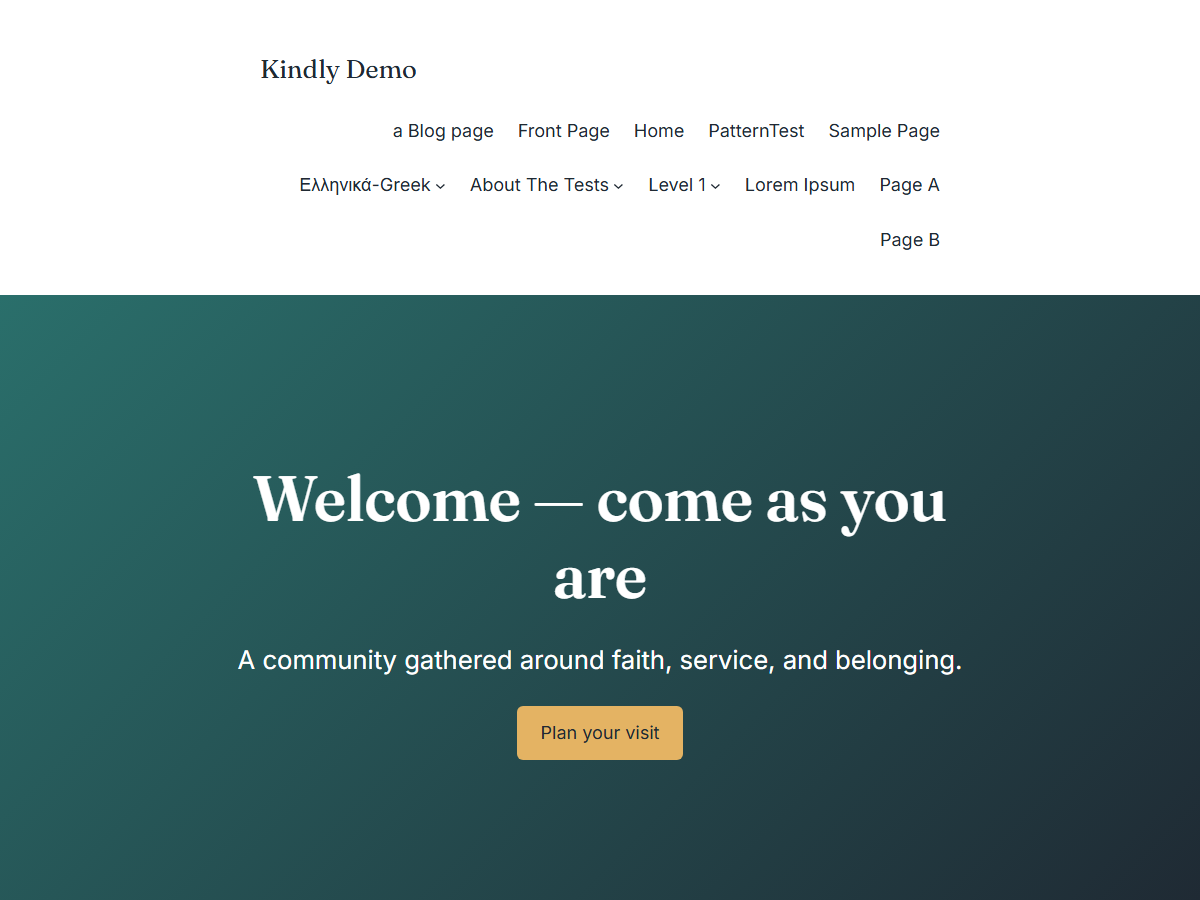
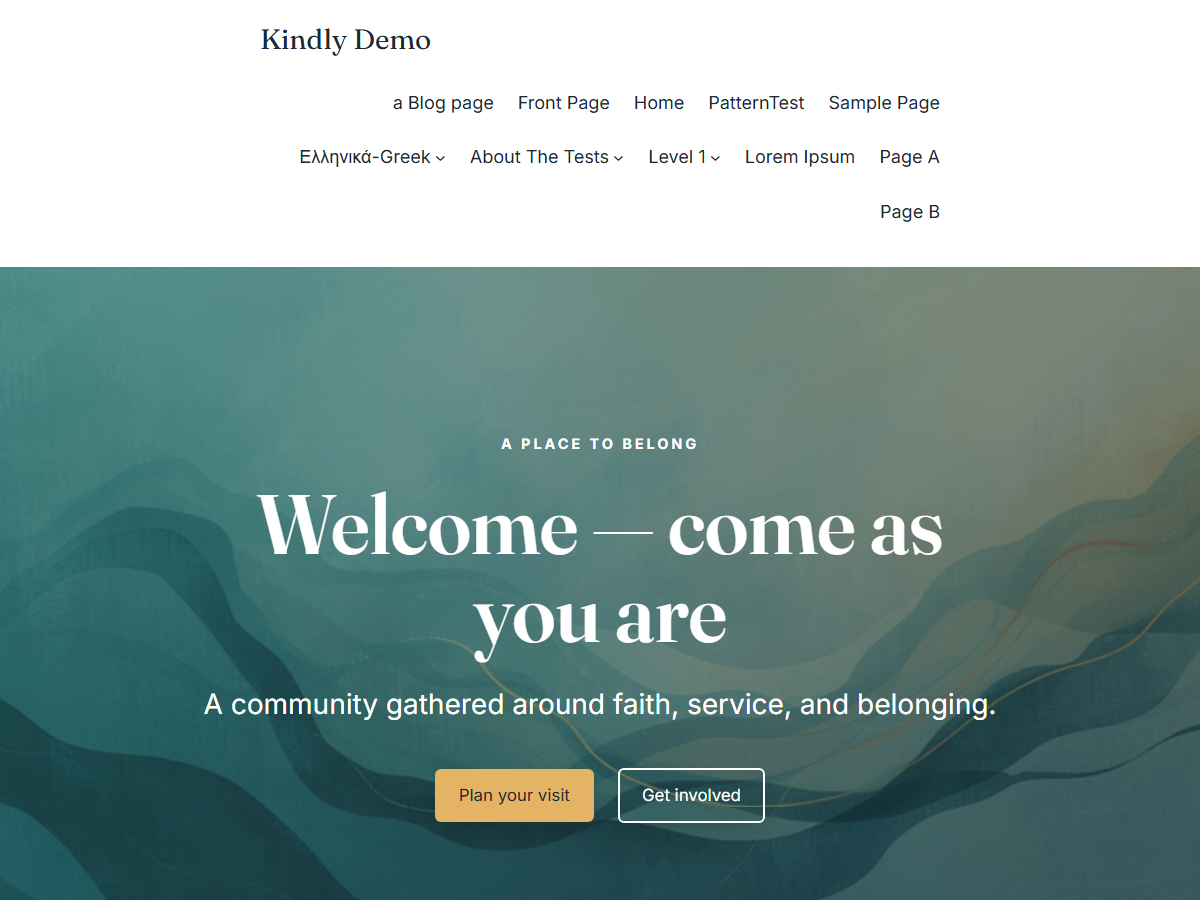
feat(design): bolder visual pass + generated hero/section imagery
- Card depth (shadows, hover lift), accent badges, bigger fluid headings,
  more colour rhythm; redesigned the "Who we are" and hero sections.
- Bundled 3 Canva-generated abstract images (hero bg, who-we-are feature,
  serve CTA bg) as default demo imagery — see assets/images/LICENSE.md and
  the readme.txt note re: swapping for GPL/CC0 before any WordPress.org submit.
- Hero & serve use cover images with palette-overlay (gradient/primary) at
  dim levels that keep white text WCAG AA legible.
- Theme Check: 0 REQUIRED, 0 WARNING. Responsive verified (mobile/tablet/desktop).

diff --git a/style.css b/style.css
@@ -21,6 +21,50 @@ Tags: full-site-editing, block-patterns, accessibility-ready, translation-ready,
 	border-radius: 2px;
 }
 
+/* --- Visual depth & polish --- */
+.wp-block-group.is-style-card,
+.kindly-card {
+	background-color: var(--wp--preset--color--base);
+	border-radius: 12px;
+	box-shadow: 0 12px 32px -14px rgba(17, 24, 39, 0.20);
+	transition: transform 0.2s ease, box-shadow 0.2s ease;
+}
+.wp-block-group.is-style-card:hover,
+.kindly-card:hover {
+	transform: translateY(-4px);
+	box-shadow: 0 20px 44px -16px rgba(17, 24, 39, 0.28);
+}
+
+/* Buttons get a gentle lift. */
+.wp-block-button__link {
+	box-shadow: 0 8px 20px -10px rgba(17, 24, 39, 0.45);
+	transition: transform 0.15s ease, box-shadow 0.15s ease;
+}
+.wp-block-button__link:hover {
+	transform: translateY(-2px);
+}
+
+/* Decorative accent rule for section headings. */
+.kindly-accent-rule {
+	width: 64px;
+	height: 4px;
+	border-radius: 2px;
+	background: var(--wp--preset--color--accent);
+}
+
+/* Round icon badge used in feature columns. */
+.kindly-badge {
+	display: inline-flex;
+	align-items: center;
+	justify-content: center;
+	width: 64px;
+	height: 64px;
+	border-radius: 50%;
+	background: color-mix(in srgb, var(--wp--preset--color--primary) 14%, var(--wp--preset--color--base));
+	font-size: 1.75rem;
+	line-height: 1;
+}
+
 /* Respect users who prefer reduced motion. */
 @media (prefers-reduced-motion: reduce) {
 	*,

diff --git a/patterns/service-times.php b/patterns/service-times.php
@@ -6,56 +6,56 @@
  * Description: A row of cards listing when the community gathers.
  */
 ?>
-<!-- wp:group {"align":"full","backgroundColor":"surface","style":{"spacing":{"padding":{"top":"var:preset|spacing|70","bottom":"var:preset|spacing|70"}}},"layout":{"type":"constrained"}} -->
-<div class="wp-block-group alignfull has-surface-background-color has-background" style="padding-top:var(--wp--preset--spacing--70);padding-bottom:var(--wp--preset--spacing--70)"><!-- wp:heading {"textAlign":"center","level":2} -->
+<!-- wp:group {"align":"full","backgroundColor":"surface","style":{"spacing":{"padding":{"top":"var:preset|spacing|80","bottom":"var:preset|spacing|80"}}},"layout":{"type":"constrained"}} -->
+<div class="wp-block-group alignfull has-surface-background-color has-background" style="padding-top:var(--wp--preset--spacing--80);padding-bottom:var(--wp--preset--spacing--80)"><!-- wp:heading {"textAlign":"center","level":2} -->
 <h2 class="wp-block-heading has-text-align-center"><?php esc_html_e( 'When we gather', 'kindly' ); ?></h2>
 <!-- /wp:heading -->
 
-<!-- wp:columns {"style":{"spacing":{"margin":{"top":"var:preset|spacing|50"}}}} -->
-<div class="wp-block-columns" style="margin-top:var(--wp--preset--spacing--50)"><!-- wp:column -->
-<div class="wp-block-column"><!-- wp:group {"backgroundColor":"base","style":{"spacing":{"padding":{"top":"var:preset|spacing|40","bottom":"var:preset|spacing|40","left":"var:preset|spacing|40","right":"var:preset|spacing|40"}},"border":{"radius":"8px"}},"layout":{"type":"constrained"}} -->
-<div class="wp-block-group has-base-background-color has-background" style="border-radius:8px;padding-top:var(--wp--preset--spacing--40);padding-right:var(--wp--preset--spacing--40);padding-bottom:var(--wp--preset--spacing--40);padding-left:var(--wp--preset--spacing--40)"><!-- wp:heading {"level":3,"fontSize":"large"} -->
-<h3 class="wp-block-heading has-large-font-size"><?php esc_html_e( 'Sunday Service', 'kindly' ); ?></h3>
+<!-- wp:columns {"style":{"spacing":{"margin":{"top":"var:preset|spacing|60"},"blockGap":{"left":"var:preset|spacing|50"}}}} -->
+<div class="wp-block-columns" style="margin-top:var(--wp--preset--spacing--60)"><!-- wp:column -->
+<div class="wp-block-column"><!-- wp:group {"className":"is-style-card","layout":{"type":"constrained"}} -->
+<div class="wp-block-group is-style-card"><!-- wp:heading {"level":3,"textColor":"primary","fontSize":"medium","style":{"typography":{"textTransform":"uppercase","letterSpacing":"1px","fontWeight":"700"}}} -->
+<h3 class="wp-block-heading has-primary-color has-text-color has-medium-font-size" style="font-weight:700;letter-spacing:1px;text-transform:uppercase"><?php esc_html_e( 'Sunday Service', 'kindly' ); ?></h3>
 <!-- /wp:heading -->
 
-<!-- wp:paragraph {"textColor":"primary","fontSize":"medium"} -->
-<p class="has-primary-color has-text-color has-medium-font-size"><?php esc_html_e( 'Sundays · 10:00 AM', 'kindly' ); ?></p>
+<!-- wp:paragraph {"fontSize":"x-large","style":{"typography":{"fontFamily":"var:preset|font-family|heading"},"spacing":{"margin":{"top":"var:preset|spacing|20","bottom":"var:preset|spacing|20"}}}} -->
+<p class="has-x-large-font-size" style="font-family:var(--wp--preset--font-family--heading);margin-top:var(--wp--preset--spacing--20);margin-bottom:var(--wp--preset--spacing--20)"><?php esc_html_e( '10:00 AM', 'kindly' ); ?></p>
 <!-- /wp:paragraph -->
 
 <!-- wp:paragraph {"fontSize":"small"} -->
-<p class="has-small-font-size"><?php esc_html_e( 'Worship, music, and a message of hope. Everyone is welcome.', 'kindly' ); ?></p>
+<p class="has-small-font-size"><strong><?php esc_html_e( 'Sundays.', 'kindly' ); ?></strong> <?php esc_html_e( 'Worship, music, and a message of hope. Everyone is welcome.', 'kindly' ); ?></p>
 <!-- /wp:paragraph --></div>
 <!-- /wp:group --></div>
 <!-- /wp:column -->
 
 <!-- wp:column -->
-<div class="wp-block-column"><!-- wp:group {"backgroundColor":"base","style":{"spacing":{"padding":{"top":"var:preset|spacing|40","bottom":"var:preset|spacing|40","left":"var:preset|spacing|40","right":"var:preset|spacing|40"}},"border":{"radius":"8px"}},"layout":{"type":"constrained"}} -->
-<div class="wp-block-group has-base-background-color has-background" style="border-radius:8px;padding-top:var(--wp--preset--spacing--40);padding-right:var(--wp--preset--spacing--40);padding-bottom:var(--wp--preset--spacing--40);padding-left:var(--wp--preset--spacing--40)"><!-- wp:heading {"level":3,"fontSize":"large"} -->
-<h3 class="wp-block-heading has-large-font-size"><?php esc_html_e( 'Midweek Gathering', 'kindly' ); ?></h3>
+<div class="wp-block-column"><!-- wp:group {"className":"is-style-card","layout":{"type":"constrained"}} -->
+<div class="wp-block-group is-style-card"><!-- wp:heading {"level":3,"textColor":"primary","fontSize":"medium","style":{"typography":{"textTransform":"uppercase","letterSpacing":"1px","fontWeight":"700"}}} -->
+<h3 class="wp-block-heading has-primary-color has-text-color has-medium-font-size" style="font-weight:700;letter-spacing:1px;text-transform:uppercase"><?php esc_html_e( 'Midweek', 'kindly' ); ?></h3>
 <!-- /wp:heading -->
 
-<!-- wp:paragraph {"textColor":"primary","fontSize":"medium"} -->
-<p class="has-primary-color has-text-color has-medium-font-size"><?php esc_html_e( 'Wednesdays · 7:00 PM', 'kindly' ); ?></p>
+<!-- wp:paragraph {"fontSize":"x-large","style":{"typography":{"fontFamily":"var:preset|font-family|heading"},"spacing":{"margin":{"top":"var:preset|spacing|20","bottom":"var:preset|spacing|20"}}}} -->
+<p class="has-x-large-font-size" style="font-family:var(--wp--preset--font-family--heading);margin-top:var(--wp--preset--spacing--20);margin-bottom:var(--wp--preset--spacing--20)"><?php esc_html_e( '7:00 PM', 'kindly' ); ?></p>
 <!-- /wp:paragraph -->
 
 <!-- wp:paragraph {"fontSize":"small"} -->
-<p class="has-small-font-size"><?php esc_html_e( 'Study, prayer, and connection in a smaller setting.', 'kindly' ); ?></p>
+<p class="has-small-font-size"><strong><?php esc_html_e( 'Wednesdays.', 'kindly' ); ?></strong> <?php esc_html_e( 'Study, prayer, and connection in a smaller setting.', 'kindly' ); ?></p>
 <!-- /wp:paragraph --></div>
 <!-- /wp:group --></div>
 <!-- /wp:column -->
 
 <!-- wp:column -->
-<div class="wp-block-column"><!-- wp:group {"backgroundColor":"base","style":{"spacing":{"padding":{"top":"var:preset|spacing|40","bottom":"var:preset|spacing|40","left":"var:preset|spacing|40","right":"var:preset|spacing|40"}},"border":{"radius":"8px"}},"layout":{"type":"constrained"}} -->
-<div class="wp-block-group has-base-background-color has-background" style="border-radius:8px;padding-top:var(--wp--preset--spacing--40);padding-right:var(--wp--preset--spacing--40);padding-bottom:var(--wp--preset--spacing--40);padding-left:var(--wp--preset--spacing--40)"><!-- wp:heading {"level":3,"fontSize":"large"} -->
-<h3 class="wp-block-heading has-large-font-size"><?php esc_html_e( 'Youth Night', 'kindly' ); ?></h3>
+<div class="wp-block-column"><!-- wp:group {"className":"is-style-card","layout":{"type":"constrained"}} -->
+<div class="wp-block-group is-style-card"><!-- wp:heading {"level":3,"textColor":"primary","fontSize":"medium","style":{"typography":{"textTransform":"uppercase","letterSpacing":"1px","fontWeight":"700"}}} -->
+<h3 class="wp-block-heading has-primary-color has-text-color has-medium-font-size" style="font-weight:700;letter-spacing:1px;text-transform:uppercase"><?php esc_html_e( 'Youth Night', 'kindly' ); ?></h3>
 <!-- /wp:heading -->
 
-<!-- wp:paragraph {"textColor":"primary","fontSize":"medium"} -->
-<p class="has-primary-color has-text-color has-medium-font-size"><?php esc_html_e( 'Fridays · 6:30 PM', 'kindly' ); ?></p>
+<!-- wp:paragraph {"fontSize":"x-large","style":{"typography":{"fontFamily":"var:preset|font-family|heading"},"spacing":{"margin":{"top":"var:preset|spacing|20","bottom":"var:preset|spacing|20"}}}} -->
+<p class="has-x-large-font-size" style="font-family:var(--wp--preset--font-family--heading);margin-top:var(--wp--preset--spacing--20);margin-bottom:var(--wp--preset--spacing--20)"><?php esc_html_e( '6:30 PM', 'kindly' ); ?></p>
 <!-- /wp:paragraph -->
 
 <!-- wp:paragraph {"fontSize":"small"} -->
-<p class="has-small-font-size"><?php esc_html_e( 'Games, service projects, and friendship for teens.', 'kindly' ); ?></p>
+<p class="has-small-font-size"><strong><?php esc_html_e( 'Fridays.', 'kindly' ); ?></strong> <?php esc_html_e( 'Games, service projects, and friendship for teens.', 'kindly' ); ?></p>
 <!-- /wp:paragraph --></div>
 <!-- /wp:group --></div>
 <!-- /wp:column --></div>

diff --git a/patterns/hero.php b/patterns/hero.php
@@ -6,19 +6,27 @@
  * Description: Full-width welcome hero with a mission statement and a primary call to action.
  */
 ?>
-<!-- wp:cover {"gradient":"hero","dimRatio":100,"minHeight":70,"minHeightUnit":"vh","contentPosition":"center center","align":"full","style":{"spacing":{"padding":{"top":"var:preset|spacing|70","bottom":"var:preset|spacing|70"}}}} -->
-<div class="wp-block-cover alignfull" style="padding-top:var(--wp--preset--spacing--70);padding-bottom:var(--wp--preset--spacing--70);min-height:70vh"><span aria-hidden="true" class="wp-block-cover__background has-background-dim-100 has-background-dim has-background-gradient has-hero-gradient-background"></span><div class="wp-block-cover__inner-container"><!-- wp:group {"layout":{"type":"constrained","contentSize":"760px"}} -->
-<div class="wp-block-group"><!-- wp:heading {"textAlign":"center","level":1,"textColor":"base","fontSize":"xx-large"} -->
-<h1 class="wp-block-heading has-text-align-center has-base-color has-text-color has-xx-large-font-size"><?php esc_html_e( 'Welcome — come as you are', 'kindly' ); ?></h1>
+<!-- wp:cover {"url":"<?php echo esc_url( get_template_directory_uri() . '/assets/images/hero-bg.jpg' ); ?>","dimRatio":60,"gradient":"hero","minHeight":80,"minHeightUnit":"vh","contentPosition":"center center","align":"full","isDark":true,"style":{"spacing":{"padding":{"top":"var:preset|spacing|80","bottom":"var:preset|spacing|80"}}}} -->
+<div class="wp-block-cover alignfull is-dark" style="padding-top:var(--wp--preset--spacing--80);padding-bottom:var(--wp--preset--spacing--80);min-height:80vh"><img class="wp-block-cover__image-background" alt="" src="<?php echo esc_url( get_template_directory_uri() . '/assets/images/hero-bg.jpg' ); ?>" data-object-fit="cover"/><span aria-hidden="true" class="wp-block-cover__background has-background-dim-60 has-background-dim has-background-gradient has-hero-gradient-background"></span><div class="wp-block-cover__inner-container"><!-- wp:group {"layout":{"type":"constrained","contentSize":"820px"}} -->
+<div class="wp-block-group"><!-- wp:paragraph {"align":"center","textColor":"base","style":{"typography":{"textTransform":"uppercase","letterSpacing":"3px","fontSize":"0.9rem","fontWeight":"700"}}} -->
+<p class="has-text-align-center has-base-color has-text-color" style="font-size:0.9rem;font-weight:700;letter-spacing:3px;text-transform:uppercase"><?php esc_html_e( 'A place to belong', 'kindly' ); ?></p>
+<!-- /wp:paragraph -->
+
+<!-- wp:heading {"textAlign":"center","level":1,"textColor":"base","fontSize":"xx-large","style":{"typography":{"lineHeight":"1.05"}}} -->
+<h1 class="wp-block-heading has-text-align-center has-base-color has-text-color has-xx-large-font-size" style="line-height:1.05"><?php esc_html_e( 'Welcome — come as you are', 'kindly' ); ?></h1>
 <!-- /wp:heading -->
 
-<!-- wp:paragraph {"align":"center","textColor":"base","fontSize":"large"} -->
+<!-- wp:paragraph {"align":"center","textColor":"base","fontSize":"large","style":{"elements":{"link":{"color":{"text":"var:preset|color|base"}}}}} -->
 <p class="has-text-align-center has-base-color has-text-color has-large-font-size"><?php esc_html_e( 'A community gathered around faith, service, and belonging.', 'kindly' ); ?></p>
 <!-- /wp:paragraph -->
 
-<!-- wp:buttons {"layout":{"type":"flex","justifyContent":"center"},"style":{"spacing":{"margin":{"top":"var:preset|spacing|40"}}}} -->
-<div class="wp-block-buttons" style="margin-top:var(--wp--preset--spacing--40)"><!-- wp:button {"backgroundColor":"accent","textColor":"contrast"} -->
-<div class="wp-block-button"><a class="wp-block-button__link has-contrast-color has-accent-background-color has-text-color has-background wp-element-button"><?php esc_html_e( 'Plan your visit', 'kindly' ); ?></a></div>
+<!-- wp:buttons {"layout":{"type":"flex","justifyContent":"center"},"style":{"spacing":{"margin":{"top":"var:preset|spacing|50"}}}} -->
+<div class="wp-block-buttons" style="margin-top:var(--wp--preset--spacing--50)"><!-- wp:button {"backgroundColor":"accent","textColor":"contrast","style":{"typography":{"fontSize":"1.05rem"}}} -->
+<div class="wp-block-button" style="font-size:1.05rem"><a class="wp-block-button__link has-contrast-color has-accent-background-color has-text-color has-background wp-element-button"><?php esc_html_e( 'Plan your visit', 'kindly' ); ?></a></div>
+<!-- /wp:button -->
+
+<!-- wp:button {"textColor":"base","className":"is-style-outline","style":{"typography":{"fontSize":"1.05rem"},"border":{"color":"var:preset|color|base","width":"2px"}}} -->
+<div class="wp-block-button is-style-outline" style="font-size:1.05rem"><a class="wp-block-button__link has-base-color has-text-color has-border-color wp-element-button" style="border-color:var(--wp--preset--color--base);border-width:2px"><?php esc_html_e( 'Get involved', 'kindly' ); ?></a></div>
 <!-- /wp:button --></div>
 <!-- /wp:buttons --></div>
 <!-- /wp:group --></div></div>

diff --git a/patterns/outreach.php b/patterns/outreach.php
@@ -6,44 +6,64 @@
  * Description: Three areas of humanitarian service the organization gives to the wider community.
  */
 ?>
-<!-- wp:group {"style":{"spacing":{"padding":{"top":"var:preset|spacing|70","bottom":"var:preset|spacing|70"}}},"layout":{"type":"constrained"}} -->
-<div class="wp-block-group" style="padding-top:var(--wp--preset--spacing--70);padding-bottom:var(--wp--preset--spacing--70)"><!-- wp:heading {"textAlign":"center","level":2} -->
+<!-- wp:group {"style":{"spacing":{"padding":{"top":"var:preset|spacing|80","bottom":"var:preset|spacing|80"}}},"layout":{"type":"constrained"}} -->
+<div class="wp-block-group" style="padding-top:var(--wp--preset--spacing--80);padding-bottom:var(--wp--preset--spacing--80)"><!-- wp:group {"layout":{"type":"constrained","contentSize":"640px"}} -->
+<div class="wp-block-group"><!-- wp:heading {"textAlign":"center","level":2} -->
 <h2 class="wp-block-heading has-text-align-center"><?php esc_html_e( 'Service &amp; outreach', 'kindly' ); ?></h2>
 <!-- /wp:heading -->
 
 <!-- wp:paragraph {"align":"center","fontSize":"large"} -->
 <p class="has-text-align-center has-large-font-size"><?php esc_html_e( 'We believe in giving back. Here is some of the work we do for our neighbors.', 'kindly' ); ?></p>
-<!-- /wp:paragraph -->
+<!-- /wp:paragraph --></div>
+<!-- /wp:group -->
 
-<!-- wp:columns {"style":{"spacing":{"margin":{"top":"var:preset|spacing|50"}}}} -->
-<div class="wp-block-columns" style="margin-top:var(--wp--preset--spacing--50)"><!-- wp:column -->
-<div class="wp-block-column"><!-- wp:heading {"level":3,"fontSize":"large"} -->
-<h3 class="wp-block-heading has-large-font-size"><?php esc_html_e( 'Food pantry', 'kindly' ); ?></h3>
+<!-- wp:columns {"style":{"spacing":{"margin":{"top":"var:preset|spacing|60"},"blockGap":{"left":"var:preset|spacing|50"}}}} -->
+<div class="wp-block-columns" style="margin-top:var(--wp--preset--spacing--60)"><!-- wp:column -->
+<div class="wp-block-column"><!-- wp:group {"className":"is-style-card","layout":{"type":"constrained"}} -->
+<div class="wp-block-group is-style-card"><!-- wp:html -->
+<p class="kindly-badge" aria-hidden="true">🍞</p>
+<!-- /wp:html -->
+
+<!-- wp:heading {"level":3,"fontSize":"large","style":{"spacing":{"margin":{"top":"var:preset|spacing|30"}}}} -->
+<h3 class="wp-block-heading has-large-font-size" style="margin-top:var(--wp--preset--spacing--30)"><?php esc_html_e( 'Food pantry', 'kindly' ); ?></h3>
 <!-- /wp:heading -->
 
 <!-- wp:paragraph -->
 <p><?php esc_html_e( 'Weekly groceries and warm meals for families facing hard times, no questions asked.', 'kindly' ); ?></p>
 <!-- /wp:paragraph --></div>
+<!-- /wp:group --></div>
 <!-- /wp:column -->
 
 <!-- wp:column -->
-<div class="wp-block-column"><!-- wp:heading {"level":3,"fontSize":"large"} -->
-<h3 class="wp-block-heading has-large-font-size"><?php esc_html_e( 'Community repairs', 'kindly' ); ?></h3>
+<div class="wp-block-column"><!-- wp:group {"className":"is-style-card","layout":{"type":"constrained"}} -->
+<div class="wp-block-group is-style-card"><!-- wp:html -->
+<p class="kindly-badge" aria-hidden="true">🔧</p>
+<!-- /wp:html -->
+
+<!-- wp:heading {"level":3,"fontSize":"large","style":{"spacing":{"margin":{"top":"var:preset|spacing|30"}}}} -->
+<h3 class="wp-block-heading has-large-font-size" style="margin-top:var(--wp--preset--spacing--30)"><?php esc_html_e( 'Community repairs', 'kindly' ); ?></h3>
 <!-- /wp:heading -->
 
 <!-- wp:paragraph -->
 <p><?php esc_html_e( 'Volunteers help elderly and disabled neighbors with home and yard projects.', 'kindly' ); ?></p>
 <!-- /wp:paragraph --></div>
+<!-- /wp:group --></div>
 <!-- /wp:column -->
 
 <!-- wp:column -->
-<div class="wp-block-column"><!-- wp:heading {"level":3,"fontSize":"large"} -->
-<h3 class="wp-block-heading has-large-font-size"><?php esc_html_e( 'Disaster relief', 'kindly' ); ?></h3>
+<div class="wp-block-column"><!-- wp:group {"className":"is-style-card","layout":{"type":"constrained"}} -->
+<div class="wp-block-group is-style-card"><!-- wp:html -->
+<p class="kindly-badge" aria-hidden="true">🤝</p>
+<!-- /wp:html -->
+
+<!-- wp:heading {"level":3,"fontSize":"large","style":{"spacing":{"margin":{"top":"var:preset|spacing|30"}}}} -->
+<h3 class="wp-block-heading has-large-font-size" style="margin-top:var(--wp--preset--spacing--30)"><?php esc_html_e( 'Disaster relief', 'kindly' ); ?></h3>
 <!-- /wp:heading -->
 
 <!-- wp:paragraph -->
 <p><?php esc_html_e( 'When crisis strikes nearby, we mobilize supplies and hands to help communities recover.', 'kindly' ); ?></p>
 <!-- /wp:paragraph --></div>
+<!-- /wp:group --></div>
 <!-- /wp:column --></div>
 <!-- /wp:columns --></div>
 <!-- /wp:group -->

diff --git a/patterns/mission.php b/patterns/mission.php
@@ -3,29 +3,47 @@
  * Title: Mission — Who we are
  * Slug: kindly/mission
  * Categories: kindly
- * Description: A short introduction to the organization with a supporting image.
+ * Description: A short introduction to the organization beside a feature image and core values.
  */
 ?>
-<!-- wp:group {"style":{"spacing":{"padding":{"top":"var:preset|spacing|70","bottom":"var:preset|spacing|70"}}},"layout":{"type":"constrained"}} -->
-<div class="wp-block-group" style="padding-top:var(--wp--preset--spacing--70);padding-bottom:var(--wp--preset--spacing--70)"><!-- wp:heading {"level":2} -->
-<h2 class="wp-block-heading"><?php esc_html_e( 'Who we are', 'kindly' ); ?></h2>
+<!-- wp:group {"style":{"spacing":{"padding":{"top":"var:preset|spacing|80","bottom":"var:preset|spacing|80"}}},"layout":{"type":"constrained"}} -->
+<div class="wp-block-group" style="padding-top:var(--wp--preset--spacing--80);padding-bottom:var(--wp--preset--spacing--80)"><!-- wp:columns {"verticalAlignment":"center","style":{"spacing":{"blockGap":{"left":"var:preset|spacing|70"}}}} -->
+<div class="wp-block-columns are-vertically-aligned-center"><!-- wp:column {"verticalAlignment":"center","width":"48%"} -->
+<div class="wp-block-column is-vertically-aligned-center" style="flex-basis:48%"><!-- wp:image {"aspectRatio":"4/3","scale":"cover","sizeSlug":"large","style":{"border":{"radius":"16px"}}} -->
+<figure class="wp-block-image size-large has-custom-border"><img src="<?php echo esc_url( get_template_directory_uri() . '/assets/images/whoweare.jpg' ); ?>" alt="" style="border-radius:16px;aspect-ratio:4/3;object-fit:cover"/></figure>
+<!-- /wp:image --></div>
+<!-- /wp:column -->
+
+<!-- wp:column {"verticalAlignment":"center","width":"52%"} -->
+<div class="wp-block-column is-vertically-aligned-center" style="flex-basis:52%"><!-- wp:html -->
+<div class="kindly-accent-rule"></div>
+<!-- /wp:html -->
+
+<!-- wp:heading {"level":2,"style":{"spacing":{"margin":{"top":"var:preset|spacing|30"}}}} -->
+<h2 class="wp-block-heading" style="margin-top:var(--wp--preset--spacing--30)"><?php esc_html_e( 'Who we are', 'kindly' ); ?></h2>
 <!-- /wp:heading -->
 
-<!-- wp:columns {"verticalAlignment":"center","style":{"spacing":{"margin":{"top":"var:preset|spacing|40"}}}} -->
-<div class="wp-block-columns are-vertically-aligned-center" style="margin-top:var(--wp--preset--spacing--40)"><!-- wp:column {"verticalAlignment":"center"} -->
-<div class="wp-block-column is-vertically-aligned-center"><!-- wp:paragraph {"fontSize":"large"} -->
+<!-- wp:paragraph {"fontSize":"large"} -->
 <p class="has-large-font-size"><?php esc_html_e( 'We are a community rooted in faith and shaped by service.', 'kindly' ); ?></p>
 <!-- /wp:paragraph -->
 
 <!-- wp:paragraph -->
-<p><?php esc_html_e( 'For more than a generation, neighbors have gathered here to worship, to care for one another, and to give back to the community around us. Whoever you are and wherever you are on your journey, there is a place for you.', 'kindly' ); ?></p>
-<!-- /wp:paragraph --></div>
-<!-- /wp:column -->
+<p><?php esc_html_e( 'For more than a generation, neighbors have gathered here to worship, to care for one another, and to give back. Whoever you are and wherever you are on your journey, there is a place for you.', 'kindly' ); ?></p>
+<!-- /wp:paragraph -->
 
-<!-- wp:column {"verticalAlignment":"center"} -->
-<div class="wp-block-column is-vertically-aligned-center"><!-- wp:image {"sizeSlug":"large","style":{"border":{"radius":"8px"}}} -->
-<figure class="wp-block-image size-large has-custom-border"><img alt="" style="border-radius:8px"/></figure>
-<!-- /wp:image --></div>
+<!-- wp:group {"style":{"spacing":{"blockGap":"var:preset|spacing|20","margin":{"top":"var:preset|spacing|40"}}},"layout":{"type":"constrained"}} -->
+<div class="wp-block-group" style="margin-top:var(--wp--preset--spacing--40)"><!-- wp:paragraph -->
+<p><strong><?php esc_html_e( 'Welcome', 'kindly' ); ?></strong> — <?php esc_html_e( 'every person matters here.', 'kindly' ); ?></p>
+<!-- /wp:paragraph -->
+
+<!-- wp:paragraph -->
+<p><strong><?php esc_html_e( 'Service', 'kindly' ); ?></strong> — <?php esc_html_e( 'faith that shows up for neighbors.', 'kindly' ); ?></p>
+<!-- /wp:paragraph -->
+
+<!-- wp:paragraph -->
+<p><strong><?php esc_html_e( 'Belonging', 'kindly' ); ?></strong> — <?php esc_html_e( 'a family for all generations.', 'kindly' ); ?></p>
+<!-- /wp:paragraph --></div>
+<!-- /wp:group --></div>
 <!-- /wp:column --></div>
 <!-- /wp:columns --></div>
 <!-- /wp:group -->

diff --git a/patterns/serve.php b/patterns/serve.php
@@ -3,11 +3,12 @@
  * Title: Serve — Get involved
  * Slug: kindly/serve
  * Categories: kindly, call-to-action
- * Description: A full-width invitation to join in serving, with a call to action.
+ * Description: A full-width invitation to join in serving, over a warm background image.
  */
 ?>
-<!-- wp:group {"align":"full","backgroundColor":"primary","textColor":"base","style":{"spacing":{"padding":{"top":"var:preset|spacing|70","bottom":"var:preset|spacing|70"}}},"layout":{"type":"constrained","contentSize":"720px"}} -->
-<div class="wp-block-group alignfull has-base-color has-primary-background-color has-text-color has-background" style="padding-top:var(--wp--preset--spacing--70);padding-bottom:var(--wp--preset--spacing--70)"><!-- wp:heading {"textAlign":"center","level":2,"textColor":"base"} -->
+<!-- wp:cover {"url":"<?php echo esc_url( get_template_directory_uri() . '/assets/images/serve-bg.jpg' ); ?>","overlayColor":"primary","dimRatio":80,"minHeight":50,"minHeightUnit":"vh","contentPosition":"center center","align":"full","isDark":true,"style":{"spacing":{"padding":{"top":"var:preset|spacing|80","bottom":"var:preset|spacing|80"}}}} -->
+<div class="wp-block-cover alignfull is-dark" style="padding-top:var(--wp--preset--spacing--80);padding-bottom:var(--wp--preset--spacing--80);min-height:50vh"><img class="wp-block-cover__image-background" alt="" src="<?php echo esc_url( get_template_directory_uri() . '/assets/images/serve-bg.jpg' ); ?>" data-object-fit="cover"/><span aria-hidden="true" class="wp-block-cover__background has-primary-background-color has-background-dim-80 has-background-dim"></span><div class="wp-block-cover__inner-container"><!-- wp:group {"layout":{"type":"constrained","contentSize":"720px"}} -->
+<div class="wp-block-group"><!-- wp:heading {"textAlign":"center","level":2,"textColor":"base"} -->
 <h2 class="wp-block-heading has-text-align-center has-base-color has-text-color"><?php esc_html_e( 'Join us in serving', 'kindly' ); ?></h2>
 <!-- /wp:heading -->
 
@@ -20,4 +21,5 @@
 <div class="wp-block-button"><a class="wp-block-button__link has-primary-color has-base-background-color has-text-color has-background wp-element-button"><?php esc_html_e( 'Get involved', 'kindly' ); ?></a></div>
 <!-- /wp:button --></div>
 <!-- /wp:buttons --></div>
-<!-- /wp:group -->
+<!-- /wp:group --></div></div>
+<!-- /wp:cover -->

diff --git a/assets/images/LICENSE.md b/assets/images/LICENSE.md
@@ -1,0 +1,7 @@
+# Bundled images
+
+| File | Description | Source / License |
+|------|-------------|------------------|
+| `hero-bg.jpg` | Abstract teal/gold hero background (no text, no people) | Generated with Canva (AI). Used as a default demo image. |
+
+⚠ **WordPress.org note:** AI-generated/Canva imagery has an unsettled licensing status for GPL redistribution. Before submitting this theme to the WordPress.org Themes directory, replace any bundled image with a clearly GPL/CC0-licensed asset (or remove it and rely on user-supplied media). For the live demo and portfolio use this is fine.
